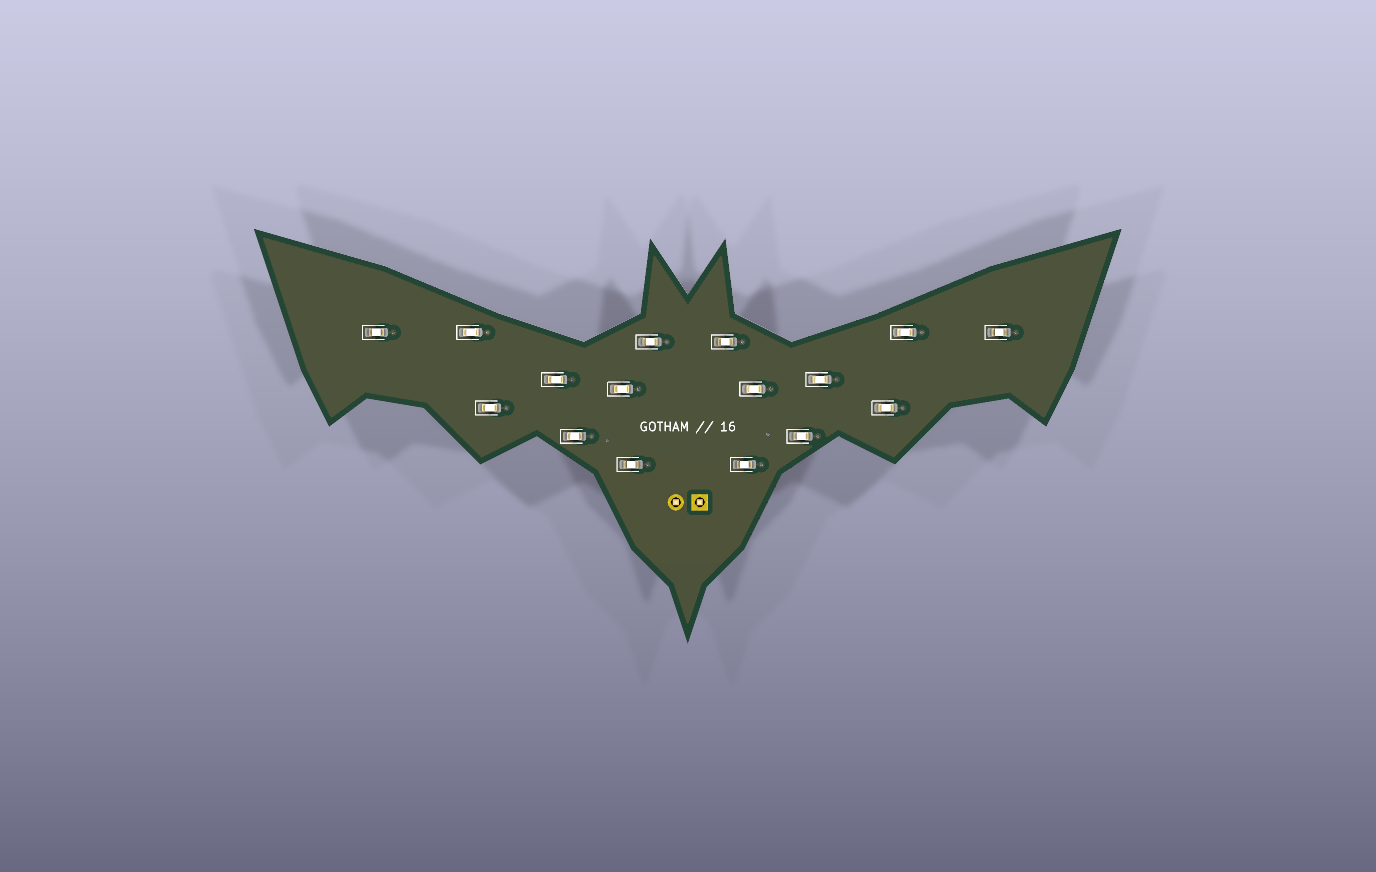
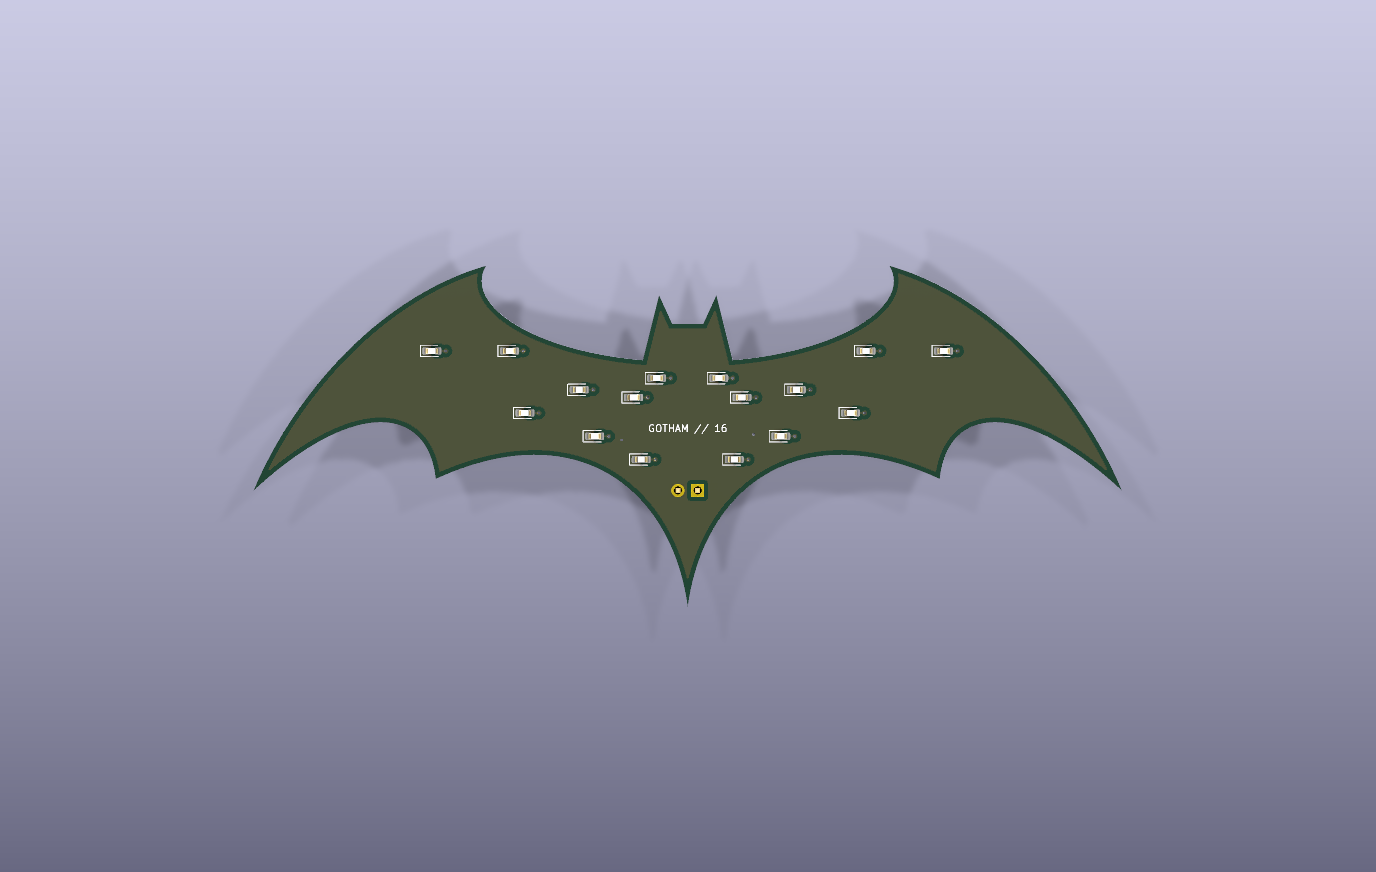
Match Batman example to swept-wing reference silhouette

Changed region(s): [[0.1562, 0.2477, 0.8438, 0.7122]]

diff --git a/examples/scripts/batman.py b/examples/scripts/batman.py
@@ -6,7 +6,8 @@ A 250 mA resettable fuse and series Schottky diode protect the 5 V input, while
 live on the front and the support circuitry lives on the back. A front GND pour
 and back +5V pour complete the power paths.
 
-Run it: ``python examples/scripts/batman.py``
+Run with ``KICAD_FLOW_BATCH_LIMIT=1000`` set in the environment:
+``python examples/scripts/batman.py``
 """
 
 from __future__ import annotations
@@ -38,19 +39,38 @@ DECOUPLING_FP = "Capacitor_SMD:C_0603_1608Metric"
 LED_AT = [
     (17.0, 21.0), (27.0, 21.0), (36.0, 26.0), (29.0, 29.0), (38.0, 32.0),
     (83.0, 21.0), (73.0, 21.0), (64.0, 26.0), (71.0, 29.0), (62.0, 32.0),
-    (46.0, 22.0), (54.0, 22.0), (43.0, 27.0), (57.0, 27.0),
+    (46.0, 24.5), (54.0, 24.5), (43.0, 27.0), (57.0, 27.0),
     (44.0, 35.0), (56.0, 35.0),
 ]
 
-# Clockwise bat silhouette. A polygon is one exact closed contour.
-BAT_OUTLINE = [
-    [50, 17], [54, 11], [55, 19], [61, 22], [70, 19], [82, 14],
-    [96, 10], [91, 25], [88, 31], [84, 28], [78, 29], [72, 35],
-    [66, 32], [60, 36], [56, 44], [52, 48], [50, 54], [48, 48],
-    [44, 44], [40, 36], [34, 32], [28, 35], [22, 29], [16, 28],
-    [12, 31], [9, 25], [4, 10], [18, 14], [30, 19], [39, 22],
-    [45, 19], [46, 11],
-]
+# Reference silhouette: swept wings and two concave scallops per side.
+# Keep the original circuit's placement relative to its centre, now x=60 mm.
+LED_AT = [(x + 10, y) for x, y in LED_AT]
+
+
+def outline_points() -> list[list[float]]:
+    """Sample caller-designed cubic curves into the polygon primitive."""
+    right = [[60.0, 17.5], [62.0, 17.5], [63.7, 13.8], [65.8, 22.2]]
+    curves = [
+        ((80.0, 21.0), (89.0, 15.0), (86.0, 10.0)),
+        ((100.0, 14.0), (111.0, 27.0), (116.0, 39.0)),
+        ((103.0, 27.0), (93.5, 28.0), (92.5, 37.5)),
+        ((74.0, 29.0), (62.0, 39.0), (60.0, 54.0)),
+    ]
+    for c1, c2, end in curves:
+        start = right[-1]
+        for step in range(1, 41):
+            t = step / 40
+            u = 1 - t
+            right.append([
+                round(u**3 * start[axis] + 3*u*u*t*c1[axis]
+                      + 3*u*t*t*c2[axis] + t**3*end[axis], 4)
+                for axis in (0, 1)
+            ])
+    return right + [[round(120-x, 4), y] for x, y in reversed(right[1:-1])]
+
+
+BAT_OUTLINE = outline_points()
 
 
 async def build(client: Client) -> int:
@@ -233,15 +253,15 @@ async def build(client: Client) -> int:
              "rotation": 90, "side": "B", "value": "330R"},
         ]
     footprints += [
-        {"fp_id": POWER_FP, "ref": "J1", "x": 51.27, "y": 39,
+        {"fp_id": POWER_FP, "ref": "J1", "x": 61.27, "y": 39,
          "rotation": 270, "side": "B", "value": "5V IN"},
-        {"fp_id": FUSE_FP, "ref": "F1", "x": 49.87, "y": 34,
+        {"fp_id": FUSE_FP, "ref": "F1", "x": 59.87, "y": 34,
          "side": "B", "value": "250mA PTC"},
-        {"fp_id": DIODE_FP, "ref": "D17", "x": 50.47, "y": 28,
+        {"fp_id": DIODE_FP, "ref": "D17", "x": 60.47, "y": 28,
          "side": "B", "value": "SS14"},
-        {"fp_id": BULK_FP, "ref": "C1", "x": 43, "y": 31,
+        {"fp_id": BULK_FP, "ref": "C1", "x": 53, "y": 31,
          "rotation": 90, "side": "B", "value": "10uF"},
-        {"fp_id": DECOUPLING_FP, "ref": "C2", "x": 57, "y": 31,
+        {"fp_id": DECOUPLING_FP, "ref": "C2", "x": 67, "y": 31,
          "rotation": 90, "side": "B", "value": "100nF"},
     ]
     exported = await call(
@@ -262,6 +282,11 @@ async def build(client: Client) -> int:
          "hide": True}
         for fp in board_parts.get("footprints", [])
     ])
+
+    placement = await call("measure_placement", path=board)
+    if not placement.get("valid"):
+        print(f"INVALID placement: {placement}")
+        return failures + 1
 
     # The schematic's exact net membership was applied by export.
     net_of: dict[str, str] = {}
@@ -333,12 +358,12 @@ async def build(client: Client) -> int:
 
     # Keep the silkscreen sparse so the LEDs and silhouette stay legible.
     await call("add_board_texts", path=board, texts=[
-        {"x": 50, "y": 31, "text": "GOTHAM // 16",
+        {"x": 60, "y": 31, "text": "GOTHAM // 16",
          "layer": "F.SilkS", "width": 0.9, "height": 0.9,
          "thickness": 0.135},
-        {"x": 55, "y": 39, "text": "+5V", "layer": "B.SilkS",
+        {"x": 65, "y": 39, "text": "+5V", "layer": "B.SilkS",
          "width": 0.8, "height": 0.8, "thickness": 0.12, "mirror": True},
-        {"x": 45, "y": 41.5, "text": "GND", "layer": "B.SilkS",
+        {"x": 55, "y": 39, "text": "GND", "layer": "B.SilkS",
          "width": 0.8, "height": 0.8, "thickness": 0.12, "mirror": True},
     ])
 
@@ -370,7 +395,7 @@ async def build(client: Client) -> int:
         failures += int(unrouted["count"])
     if errors:
         failures += len(errors)
-    if outline.get("size") != [92.0, 44.0]:
+    if outline.get("size") != [112.0, 44.0]:
         failures += 1
         print(f"WRONG board size: {outline.get('size')}")
 
@@ -381,6 +406,7 @@ async def build(client: Client) -> int:
           f"{graphics.get('count', 0)} graphics")
     print(f"unrouted: {unrouted.get('count', '?')}; "
           f"DRC errors: {len(errors)}")
+    print(f"DRC findings: {drc.get('findings', [])}")
     print(f"{calls} MCP calls in {took:.1f}s; failures: {failures}")
     return failures
 
